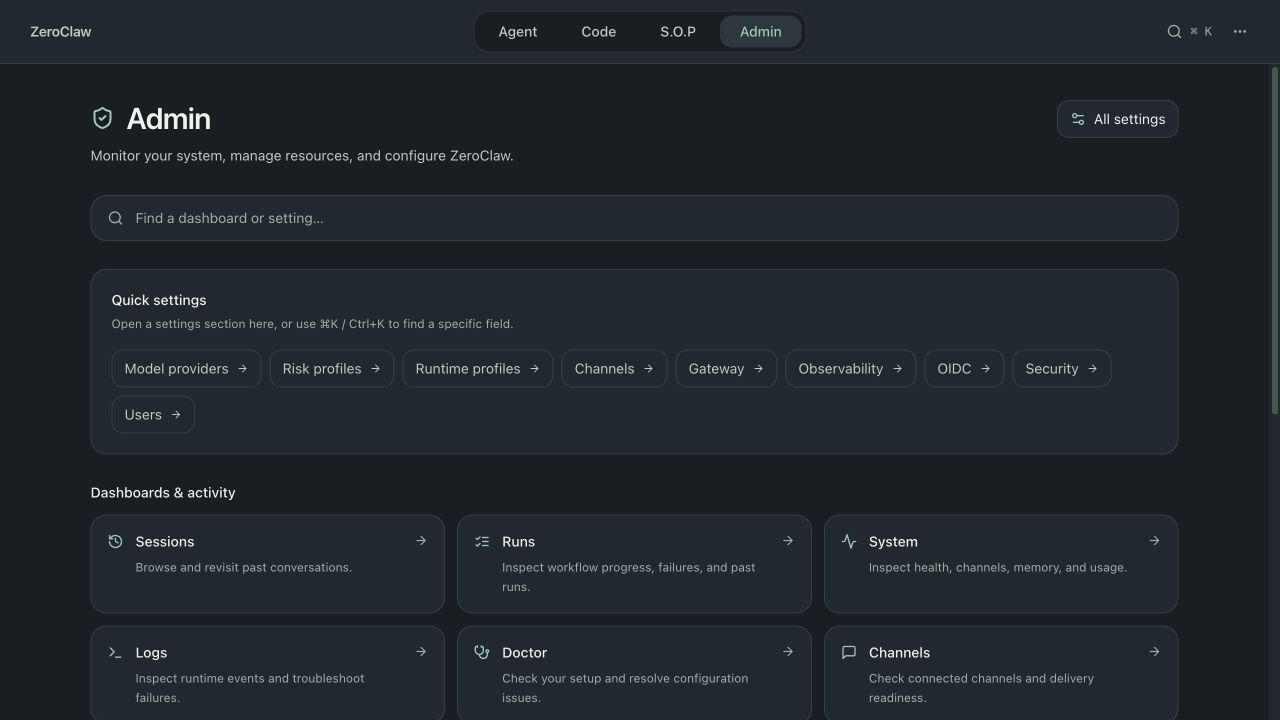
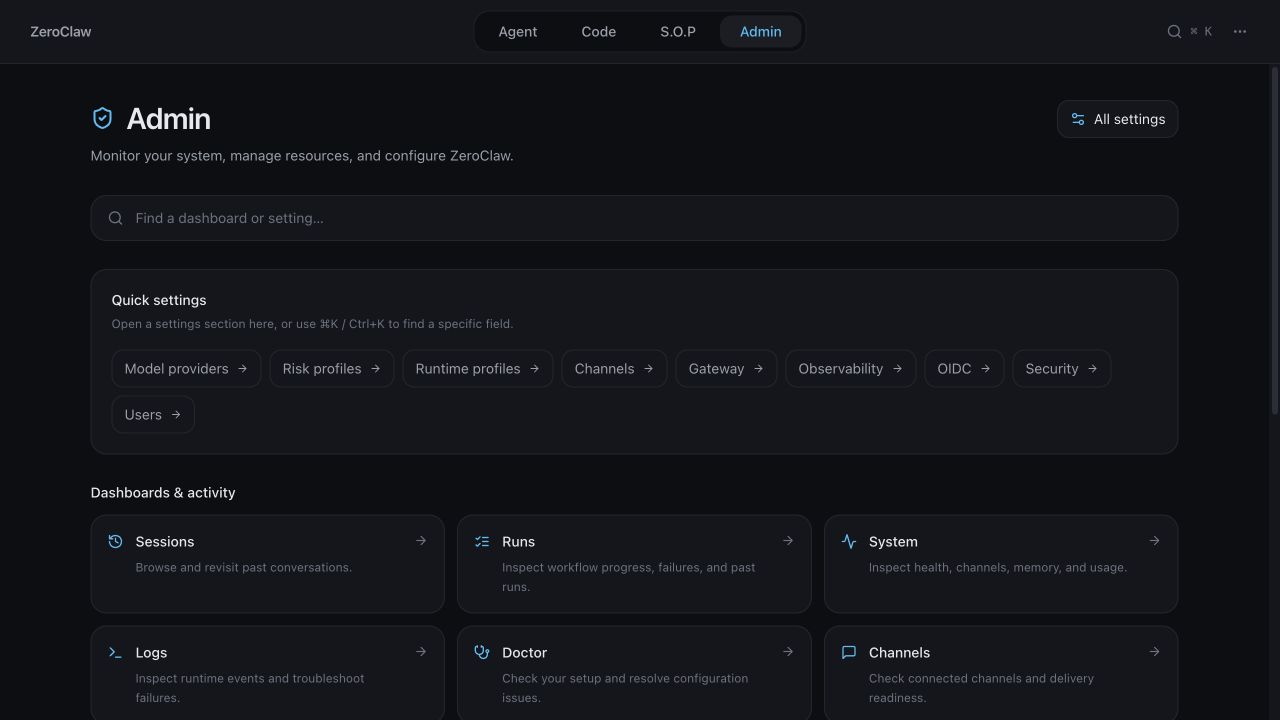
fix(web): restore ZeroClaw palette defaults

diff --git a/web/src/contexts/ThemeContext.tsx b/web/src/contexts/ThemeContext.tsx
@@ -1,5 +1,5 @@
 import { createContext, useState, useEffect, useCallback, type ReactNode } from 'react';
-import { colorThemeMap, DEFAULT_DARK_THEME, DEFAULT_LIGHT_THEME, type ColorThemeId } from './colorThemes';
+import { colorThemeMap, DEFAULT_DARK_THEME, DEFAULT_LIGHT_THEME, themeForScheme, type ColorThemeId } from './colorThemes';
 
 // ── Types (was ThemeContextDef.ts) ───────────────────────────────────────────
 
@@ -43,7 +43,7 @@ export interface ThemeContextValue {
 export const ThemeContext = createContext<ThemeContextValue>({
   theme: 'dark',
   accent: 'cyan',
-  colorTheme: 'operator-dark',
+  colorTheme: DEFAULT_DARK_THEME,
   uiFont: 'system',
   monoFont: 'jetbrains',
   uiFontSize: 15,
@@ -114,7 +114,7 @@ interface StoredTheme {
 const DEFAULTS: StoredTheme = {
   theme: 'dark',
   accent: 'cyan',
-  colorTheme: 'operator-dark',
+  colorTheme: DEFAULT_DARK_THEME,
   uiFont: 'system',
   monoFont: 'jetbrains',
   uiFontSize: 15,
@@ -206,7 +206,7 @@ function resolveColorTheme(mode: ThemeMode, colorTheme: ColorThemeId): ColorThem
     if (ct && ((preferLight && ct.scheme === 'light') || (!preferLight && ct.scheme === 'dark'))) {
       return colorTheme;
     }
-    return preferLight ? DEFAULT_LIGHT_THEME : DEFAULT_DARK_THEME;
+    return themeForScheme(colorTheme, preferLight ? 'light' : 'dark');
   }
   if (mode === 'oled') return 'oled-black';
   return colorTheme;
@@ -246,10 +246,10 @@ export function ThemeProvider({ children }: { children: ReactNode }) {
     const resolvedId = resolveColorTheme(s.theme, s.colorTheme);
     const ct = colorThemeMap[resolvedId];
     const themeVars = ct?.vars ?? colorThemeMap[DEFAULT_DARK_THEME].vars;
-    // The default accent follows the curated Operator palette in each scheme.
+    // The default accent follows the ZeroClaw or Calm palette in each scheme.
     // Explicit alternative accents and other named themes retain their colors.
     const paletteAccent = s.accent === 'cyan' &&
-      (resolvedId === DEFAULT_DARK_THEME || resolvedId === DEFAULT_LIGHT_THEME);
+      (ct?.family === 'zeroclaw' || ct?.family === 'calm');
     const colors = {
       ...themeVars,
       ...(paletteAccent ? {} : accents[s.accent]),
@@ -274,8 +274,7 @@ export function ThemeProvider({ children }: { children: ReactNode }) {
       // System mode should preserve the user's current palette and defer scheme resolution to OS preference.
       targetScheme === null || (currentCt && currentCt.scheme === targetScheme) ? colorTheme : (
         t === 'oled' ? 'oled-black' :
-        t === 'light' ? DEFAULT_LIGHT_THEME :
-        DEFAULT_DARK_THEME
+        themeForScheme(colorTheme, t === 'light' ? 'light' : 'dark')
       );
     setThemeState(t);
     setColorThemeState(newColorTheme);

diff --git a/web/src/contexts/colorThemes.ts b/web/src/contexts/colorThemes.ts
@@ -2,6 +2,7 @@ import themesData from './themes.json';
 
 export type ColorThemeId =
   | 'operator-dark' | 'operator-light'
+  | 'calm-dark' | 'calm-light'
   | 'default-dark' | 'default-light' | 'oled-black'
   | 'icy-blue'
   | 'nord-dark' | 'nord-light'
@@ -20,6 +21,8 @@ export interface ColorThemeDef {
   id: ColorThemeId;
   name: string;
   scheme: 'dark' | 'light';
+  /** Dark/light variants that should stay together when appearance mode changes. */
+  family?: string;
   preview: [string, string, string, string, string];
   vars: Record<string, string>;
 }
@@ -29,8 +32,13 @@ export const colorThemes: ColorThemeDef[] = themesData as unknown as ColorThemeD
 export const colorThemeMap: Record<ColorThemeId, ColorThemeDef> =
   Object.fromEntries(colorThemes.map(t => [t.id, t])) as Record<ColorThemeId, ColorThemeDef>;
 
-// "Operator Console" is the new default palette (Wave 1 redesign). The
-// existing themes remain selectable; only the fallback default changes when no
-// preference is saved in localStorage.
+// Keep the existing IDs for saved preferences; these are the ZeroClaw defaults.
 export const DEFAULT_DARK_THEME: ColorThemeId = 'operator-dark';
 export const DEFAULT_LIGHT_THEME: ColorThemeId = 'operator-light';
+
+export function themeForScheme(id: ColorThemeId, scheme: 'dark' | 'light'): ColorThemeId {
+  const current = colorThemeMap[id];
+  if (current.scheme === scheme) return id;
+  return colorThemes.find(theme => current.family && theme.family === current.family && theme.scheme === scheme)?.id
+    ?? (scheme === 'light' ? DEFAULT_LIGHT_THEME : DEFAULT_DARK_THEME);
+}

diff --git a/docs/book/src/developing/web.md b/docs/book/src/developing/web.md
@@ -31,9 +31,11 @@ runtime APIs; unavailable data is shown as unknown rather than zero.
 **Agent**, **Code**, **S.O.P**, and **Admin** form a centered switcher in the persistent
 header, including on Home. The page scrolls below it. There is no global
 navigation rail. Search, appearance, language, and sign-out remain available
-from the header. The default Operator palettes use softer graphite/teal and
-ivory/green surfaces, with contrasting primary-button text derived from the
-active accent. Other named palettes and explicit accent choices remain available.
+from the header. **ZeroClaw Dark/Light** are the default blue-accent palettes.
+The softer graphite/teal and ivory/green palettes remain available as
+**Calm Dark/Light** under **Appearance > Themes**. Switching appearance modes
+keeps these dark/light pairs together. Primary-button text contrasts with the
+active accent; other named palettes and explicit accent choices remain available.
 
 Admin (`/admin`) collects dashboards for system health, spending, channels,
 memory, sessions, workflow runs, logs, and diagnostics, plus agent/resource
